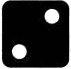
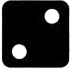
fkhldsiklksqdfhkldsghl

diff --git a/Site Web/script.js b/Site Web/script.js
@@ -172,21 +172,25 @@ function AfficherTourActuel() {
 
     const turnDisplay = document.getElementById("tourActuel"); // Récupère l'élément pour afficher les résultats du tour actuel
     // let chemin = Images/Dés_{localStorage.getItem("theme")}/joueur1Result.dice.png
-    // for (let i = 0; i <= )
-
+    let html1 = "";
+    for (let i = 0; i <= joueur1Result.dice.length-1; i++)
+        html1 += `<img src="Images/Dés_${localStorage.getItem("theme")}/${joueur1Result.dice[i]}.png" height=30rem wight=30rem>`
+    let html2 = "";
+    for (let i = 0; i <= joueur2Result.dice.length-1; i++)
+        html2 += `<img src="Images/Dés_${localStorage.getItem("theme")}/${joueur2Result.dice[i]}.png" height=30rem wight=30rem>`
     // Affiche les résultats du tour actuel
     turnDisplay.innerHTML = `
         <h3>Tour ${currentTurnIndex + 1}</h3>
         <div class="players">
             <div class="player">
                 <h4>${joueur1.pseudo} :</h4>
-                <p> - Dés : [${joueur1Result.dice.join(", ")}]</p>
+                <p>- Dés : ${html1}</p>
                 <p> - Challenge : ${joueur1Result.challenge}</p>
                 <p> - Points : ${joueur1Result.score}</p>
             </div>
             <div class="player">
                 <h4>${joueur2.pseudo} :</h4>
-                <p> - Dés : [${joueur2Result.dice.join(", ")}]</p>
+                <p> - Dés : ${html2}</p>
                 <p> - Challenge : ${joueur2Result.challenge}</p>
                 <p> - Points : ${joueur2Result.score}</p>
             </div>

diff --git a/Site Web/style.css b/Site Web/style.css
@@ -91,6 +91,7 @@ section {
     align-items: stretch; /* Permet aux éléments enfants de s'étirer */
     margin-bottom: 1rem;
     height: auto; /* Ajuster si nécessaire */
+    width: auto;
 }
 
 .navigation {
